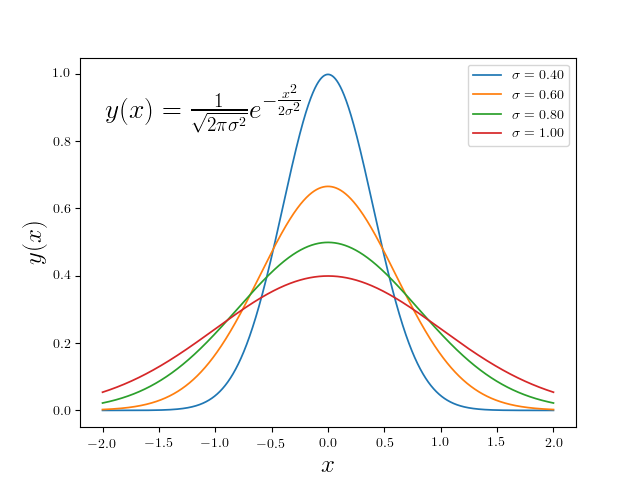
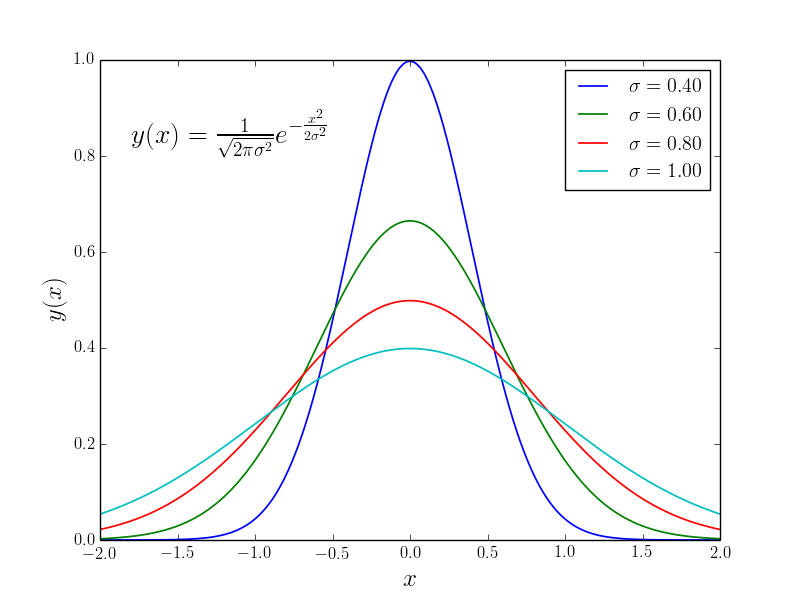
Added Python examples

diff --git a/Languages/Python/Example2/tex_demo.py b/Languages/Python/Example2/tex_demo.py
@@ -3,6 +3,8 @@
 Program: tex_demo.py
          Text rendering With LaTeX
 """
+import matplotlib as mpl
+mpl.use('Agg')
 import matplotlib.pyplot as plt
 import numpy as np
 
@@ -23,5 +25,4 @@ ax.text(0.05, 0.80, formula, transform=ax.transAxes, fontsize=20)
 ax.set_xlabel(r"$x$", fontsize=18)
 ax.set_ylabel(r"$y(x)$", fontsize=18)
 ax.legend()
-plt.savefig('tex_demo')
-plt.show()
+plt.savefig('tex_demo.png')

diff --git a/Languages/Python/Example2/README.md b/Languages/Python/Example2/README.md
@@ -1,6 +1,12 @@
-### Purpose:
+### Introduction:
 
-Program illustrates text rendering with LaTeX.
+Program illustrates text rendering with LaTeX and generating figures on the cluster. Please, notice you need to include the below lines in your Python script
+
+```python
+import matplotlib as mpl
+mpl.use('Agg')
+import matplotlib.pyplot as plt
+```
 
 ### Contents:
 
@@ -8,9 +14,11 @@ Program illustrates text rendering with LaTeX.
 
 (2) run.sbatch: Batch-job submission script for sending the job to the queue
 
+(3) tex_demo.png: Output figure
+
 ### Example Usage:
 
-```	
+```	bash
 source new modules.sh
 module load python/2.7.6-fasrc01
 module load dvipng/1.14-fasrc01
